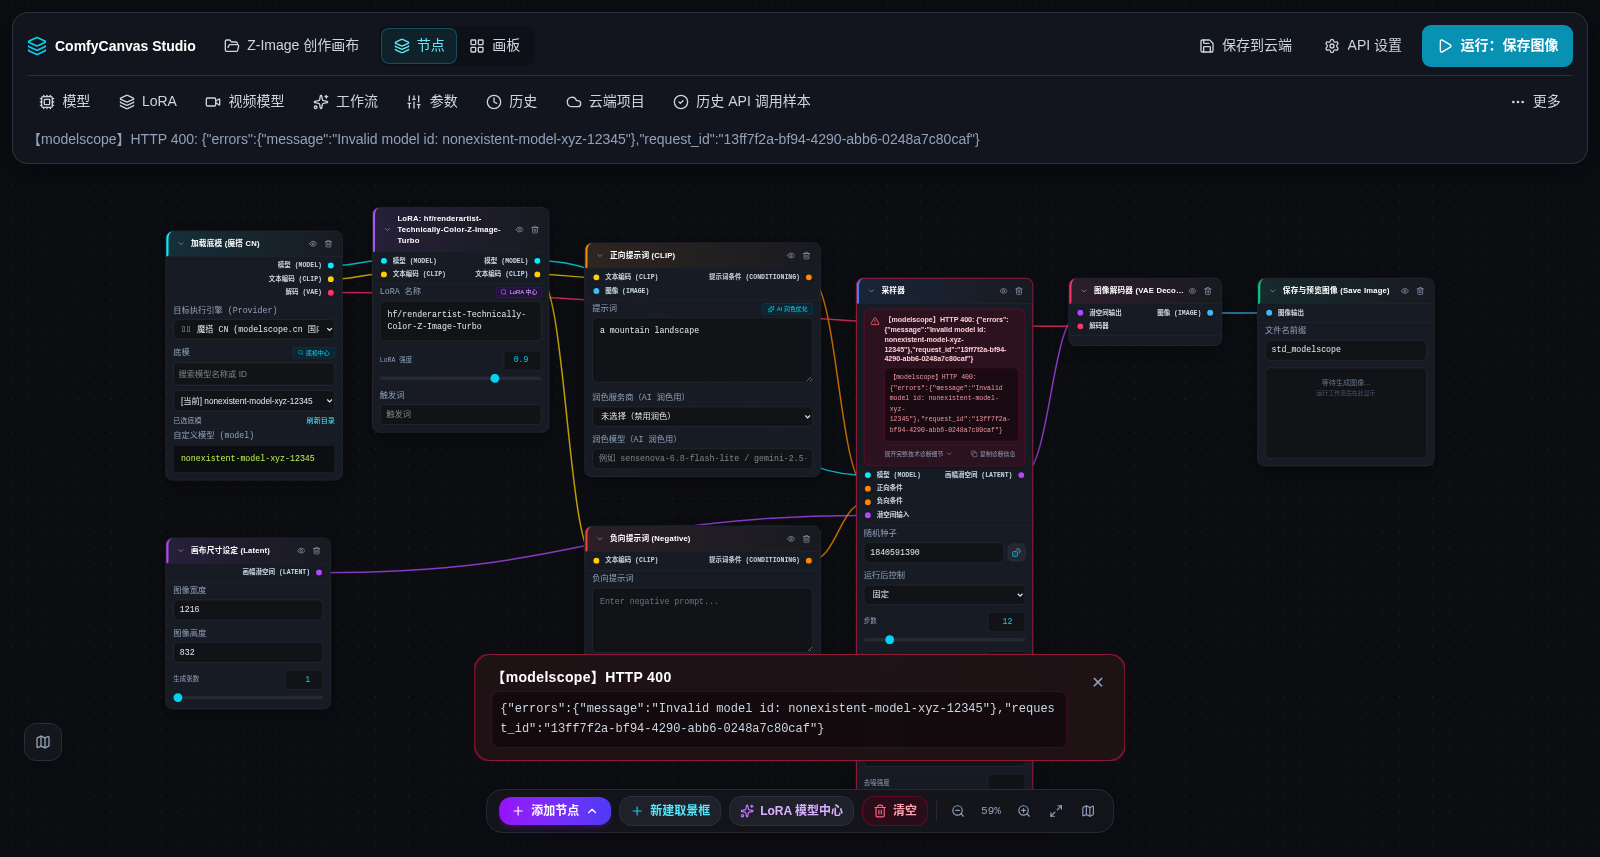
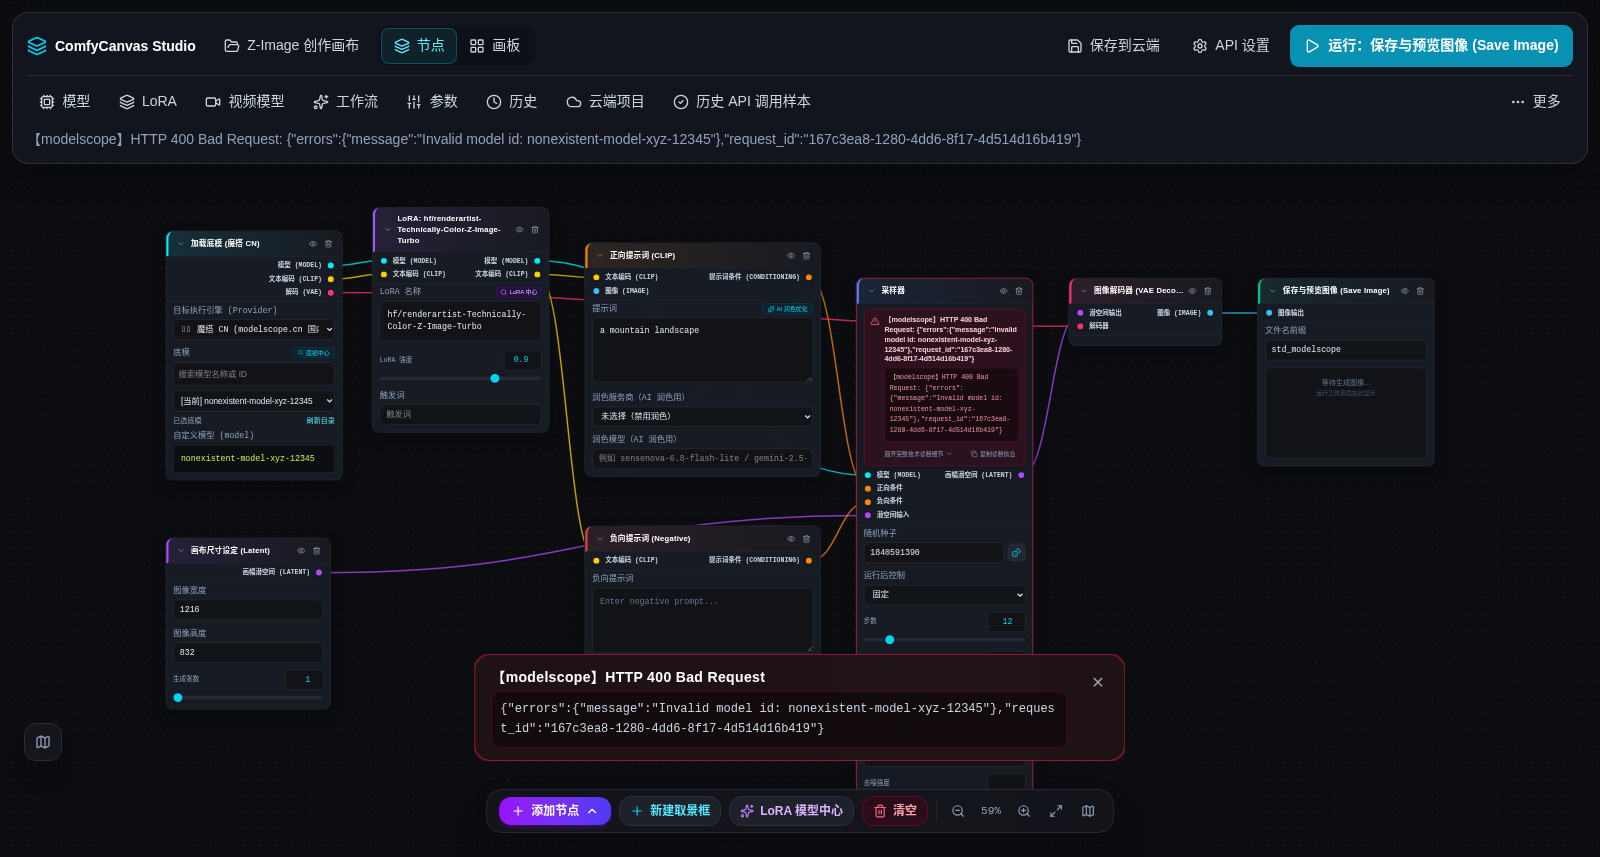
fix(verbatim): preserve real HTTP statusText over key-attempt trace, lock untrimmed upstreamHttpFirstLine, re-capture ModelScope UI

diff --git a/src/components/verbatimErrors.test.tsx b/src/components/verbatimErrors.test.tsx
@@ -4,6 +4,7 @@ import React, { act } from 'react';
 import { createRoot, type Root } from 'react-dom/client';
 import { renderToStaticMarkup } from 'react-dom/server';
 import { NodeErrorDisclosure, summarizeErrorMessage } from './NodeErrorDisclosure';
+import { humanSummaryText } from './ExecutionLog';
 import {
   upstreamHttpFirstLine,
   upstreamFailureToast,
@@ -28,6 +29,7 @@ describe('Task 5 & P1-3: Verbatim upstream error display & mutation sensitivity'
   const FAL_403_BODY = '{"detail":"User is locked. Reason: TOP_UP."}';
   const TOGETHER_401_BODY = '{"id":"f0872edf-aws_ue2","error":{"message":"Invalid API key provided. You can find your API key at https://api.together.ai/settings/api-keys.","type":"invalid_request_error","param":null,"code":"invalid_api_key"}}';
   const MODELSCOPE_400_BODY = '{"errors":{"message":"Invalid model id: nonexistent-model-xyz-12345"},"request_id":"13ff7f2a-bf94-4290-abb6-0248a7c80caf"}';
+  const MODELSCOPE_400_BODY_LATEST = '{"errors":{"message":"Invalid model id: nonexistent-model-xyz-12345"},"request_id":"167c3ea8-1280-4dd6-8f17-4d514d16b419"}';
   const MODELSCOPE_500_BODY = '{"errors":{"message":"apiInferModelDownload call failed: callApiInferModelDownload failed: [Model Exception] 模型不存在"},"request_id":"4c0b7caa-7f63-497c-972e-2f4e0e65a677"}';
 
   // Retrospective baseline fixtures (run 1 recorded references)
@@ -141,6 +143,64 @@ describe('Task 5 & P1-3: Verbatim upstream error display & mutation sensitivity'
 
       const line = upstreamHttpFirstLine(data)!;
       expect(line).toBe(`【modelscope】HTTP 400 Bad Request: ${MODELSCOPE_400_BODY}`);
+    });
+
+    it('ModelScope 400 (latest live capture): toast message and line match newly recorded request_id with Bad Request', () => {
+      const data = {
+        provider: 'modelscope',
+        upstreamStatus: 400,
+        upstreamStatusText: 'Bad Request',
+        rawResponse: MODELSCOPE_400_BODY_LATEST,
+        executionTrace: [
+          {
+            method: 'POST',
+            endpoint: 'https://api-inference.modelscope.cn/v1/images/diffusion',
+            status: 400,
+            statusText: 'Bad Request',
+            responseBody: MODELSCOPE_400_BODY_LATEST,
+          },
+          {
+            stage: 'key-attempt',
+            status: 400,
+            responseBody: MODELSCOPE_400_BODY_LATEST,
+          },
+        ],
+      };
+      const toast = upstreamFailureToast(data)!;
+      expect(toast.title).toBe('【modelscope】HTTP 400 Bad Request');
+      expect(toast.message).toBe(MODELSCOPE_400_BODY_LATEST);
+      expect(toast.message).toContain('167c3ea8-1280-4dd6-8f17-4d514d16b419');
+
+      const line = upstreamHttpFirstLine(data)!;
+      expect(line).toBe(`【modelscope】HTTP 400 Bad Request: ${MODELSCOPE_400_BODY_LATEST}`);
+    });
+
+    it('ModelScope 400 with key-attempt: does not let key-attempt bookkeeping trace shadow real statusText Bad Request', () => {
+      const data = {
+        provider: 'modelscope',
+        executionTrace: [
+          {
+            method: 'POST',
+            endpoint: 'https://api-inference.modelscope.cn/v1/images/diffusion',
+            status: 400,
+            statusText: 'Bad Request',
+            responseBody: MODELSCOPE_400_BODY,
+          },
+          {
+            stage: 'key-attempt',
+            status: 400,
+            responseBody: MODELSCOPE_400_BODY,
+          },
+        ],
+      };
+      const toast = upstreamFailureToast(data)!;
+      expect(toast.title).toBe('【modelscope】HTTP 400 Bad Request');
+      expect(toast.title).toContain('Bad Request');
+      expect(toast.message).toBe(MODELSCOPE_400_BODY);
+
+      const line = upstreamHttpFirstLine(data)!;
+      expect(line).toBe(`【modelscope】HTTP 400 Bad Request: ${MODELSCOPE_400_BODY}`);
+      expect(line).toContain('Bad Request');
     });
   });
 
@@ -451,6 +511,35 @@ describe('Task 5 & P1-3: Verbatim upstream error display & mutation sensitivity'
       expect(localWrapperEl?.textContent).toContain('SchemaProviderDriver.ts:120:15');
       expect(toastPre.closest('details')).toBeNull();
     });
+
+    it('mounts App in real DOM: ModelScope 400 with key-attempt trace renders toast title with real statusText Bad Request', async () => {
+      await triggerRunError({
+        provider: 'modelscope',
+        executionTrace: [
+          {
+            method: 'POST',
+            endpoint: 'https://api-inference.modelscope.cn/v1/images/diffusion',
+            status: 400,
+            statusText: 'Bad Request',
+            responseBody: MODELSCOPE_400_BODY,
+          },
+          {
+            stage: 'key-attempt',
+            status: 400,
+            responseBody: MODELSCOPE_400_BODY,
+          },
+        ],
+      });
+
+      const toastTitle = document.querySelector('[data-testid="toast-title"]');
+      expect(toastTitle?.textContent).toBe('【modelscope】HTTP 400 Bad Request');
+      expect(toastTitle?.textContent).toContain('Bad Request');
+
+      const toastPre = document.querySelector('[data-testid="toast-first-line"]') as HTMLPreElement;
+      expect(toastPre).not.toBeNull();
+      expect(toastPre.textContent).toBe(MODELSCOPE_400_BODY);
+      expect(toastPre.closest('details')).toBeNull();
+    });
   });
 
   describe('5. Unstructured & non-provider error preservation (multiline, long body, plain text)', () => {
@@ -484,6 +573,34 @@ describe('Task 5 & P1-3: Verbatim upstream error display & mutation sensitivity'
       // Strips genuine outer local wrappers before JSON or plain text
       const wrapped = 'Civitai Orchestration 官方算力返回错误 [400]: {"error":"bad"}';
       expect(stripLocalWrapperPrefix(wrapped)).toBe('{"error":"bad"}');
+    });
+
+    it('P1-2: upstreamHttpFirstLine and ExecutionLog humanSummaryText strictly lock trailing newline without .trim() truncation', () => {
+      const jsonWithNewline = '{"error":{"message":"Invalid model id"}}\n';
+      const data = {
+        executionTrace: [
+          {
+            status: 400,
+            statusText: 'Bad Request',
+            responseBody: jsonWithNewline,
+          },
+        ],
+      };
+      const line = upstreamHttpFirstLine(data);
+      // Must strictly equal the untrimmed concatenation with trailing newline intact
+      expect(line).toBe(`HTTP 400 Bad Request ${jsonWithNewline}`);
+      expect(line?.endsWith('\n')).toBe(true);
+
+      // Also assert ExecutionLog humanSummaryText first-line path
+      const record: any = {
+        state: 'error',
+        route: '/api/generate',
+        status: 400,
+        response: data,
+      };
+      const summary = humanSummaryText(record);
+      expect(summary).toBe(`HTTP 400 Bad Request ${jsonWithNewline}`);
+      expect(summary.endsWith('\n')).toBe(true);
     });
   });
 });

diff --git a/src/utils/apiFailure.ts b/src/utils/apiFailure.ts
@@ -197,12 +197,24 @@ function extractProviderFromRoute(route?: string): string | undefined {
   return undefined;
 }
 
+export function findFailingTrace(traces: any[]): any | undefined {
+  if (!Array.isArray(traces) || traces.length === 0) return undefined;
+  const isFailed = (t: any) => (typeof t?.status === 'number' && t.status >= 400) || t?.status === null;
+  // Prefer real HTTP exchanges (skipping stage: 'key-attempt' bookkeeping rows that lack statusText/endpoint/method)
+  const httpExchange = [...traces].reverse().find((t: any) =>
+    isFailed(t) && t?.stage !== 'key-attempt' && (t?.statusText || t?.endpoint || t?.method)
+  );
+  if (httpExchange) return httpExchange;
+  // If only key-attempt or non-exchange rows exist, use the latest failed trace as-is
+  return [...traces].reverse().find(isFailed);
+}
+
 export function upstreamFailureParts(data: any): { status: number; statusText: string; body: string; provider?: string } | null {
   if (!data || typeof data !== 'object') return null;
   // A local block before the generation request has no upstream failure: never headline a successful catalog/Schema read (e.g. HTTP 200 /tool/list).
   if (isLocalNotOutbound(data)) return null;
   const traces = Array.isArray(data.executionTrace) ? data.executionTrace : Array.isArray(data.taskExecutionTrace) ? data.taskExecutionTrace : [];
-  const failed = [...traces].reverse().find((t: any) => typeof t?.status === 'number' && t.status >= 400);
+  const failed = findFailingTrace(traces);
   const hist = data.historyItem && typeof data.historyItem === 'object' ? data.historyItem : null;
   const status = failed?.status
     ?? (typeof data.upstreamStatus === 'number' ? data.upstreamStatus : null)
@@ -330,7 +342,7 @@ export function describeApiFailure(appStatus: number, data: any, route: string) 
       ? (Object.values(data).find((v: any) => v && typeof v === 'object' && v.error) as any)
       : undefined;
   const traces = Array.isArray(data?.executionTrace) ? data.executionTrace : [];
-  const failed = traces.findLast((t: any) => t.status >= 400 || t.status === null);
+  const failed = findFailingTrace(traces);
   const status = data?.upstreamStatus ?? failed?.status ?? nested?.status;
   const endpoint = data?.exactEndpointCalled || failed?.endpoint || nested?.exactEndpointCalled;
   const source = data?.errorSource || (failed ? (failed.status === null ? 'network' : 'upstream') : 'API');

diff --git a/docs/evidence/2026-11-05/verbatim-errors.md b/docs/evidence/2026-11-05/verbatim-errors.md
@@ -123,7 +123,7 @@
 - `Civitai 400`: `{"type":"https://tools.ietf.org/html/rfc9110#section-15.5.1","title":"Bad Request","status":400,"detail":"insufficientBuzz","traceId":"00-089db51091f4345a3219237a503afea7-a5602b6b0e42f089-02"}`
 - `Fal 403`: `{"detail":"User is locked. Reason: TOP_UP."}`
 - `Together 401`: `{"id":"f0872edf-aws_ue2","error":{"message":"Invalid API key provided. You can find your API key at https://api.together.ai/settings/api-keys.","type":"invalid_request_error","param":null,"code":"invalid_api_key"}}`
-- `ModelScope 400`: `{"errors":{"message":"Invalid model id: nonexistent-model-xyz-12345"},"request_id":"13ff7f2a-bf94-4290-abb6-0248a7c80caf"}`
+- `ModelScope 400`: `{"errors":{"message":"Invalid model id: nonexistent-model-xyz-12345"},"request_id":"167c3ea8-1280-4dd6-8f17-4d514d16b419"}`（最新实机录制）及 `{"request_id":"13ff7f2a-bf94-4290-abb6-0248a7c80caf"}`
 - `ModelScope 500`: `{"errors":{"message":"apiInferModelDownload call failed: callApiInferModelDownload failed: [Model Exception] 模型不存在"},"request_id":"4c0b7caa-7f63-497c-972e-2f4e0e65a677"}`
 - 追溯基线夹具：`BASELINE_CIVITAI_400_BODY`（`3fcab5cbc...`）、`BASELINE_TOGETHER_401_BODY`（`95234f6a...`）、`BASELINE_MODELSCOPE_400_BODY`（`a12ad933...`）作为追溯基线常量同步验证。
 
@@ -197,19 +197,19 @@
    - 浮动 Toast：标题为 `【together】HTTP 401 Unauthorized`；右上角提供便捷的 `去 API 设置` 按钮；正文直接就是原始 JSON。
    - 节点红条（采样器）：展示 `去配置密钥` 快捷入口（仅在 401 下展示）；下方完整呈现原始 JSON。
 5. **`after-05-modelscope-400.png`**：
-   - 顶栏状态：`【modelscope】HTTP 400: {"errors":{"message":"Invalid model id: nonexistent-model-xyz-12345"},"request_id":"13ff7f2a-bf94-4290-abb6-0248a7c80caf"}` —— 带服务商前缀 `【modelscope】`，包含 `errors.message` 与 `request_id` 全字段！
-   - 浮动 Toast：标题为 `【modelscope】HTTP 400`；正文直接就是原始 JSON。
-   - 节点红条（采样器）：完整呈现原始响应体，彻底根除自编中文改写。
+   - 顶栏状态：`【modelscope】HTTP 400 Bad Request: {"errors":{"message":"Invalid model id: nonexistent-model-xyz-12345"},"request_id":"167c3ea8-1280-4dd6-8f17-4d514d16b419"}` —— 带服务商前缀 `【modelscope】`，完整展示真实 HTTP 状态文本 `Bad Request`，以及包含 `errors.message` 与 `request_id` 的完整 JSON 响应体！
+   - 浮动 Toast：标题为 `【modelscope】HTTP 400 Bad Request`（完整包含 `Bad Request` 状态描述）；正文直接就是纯粹的原始 JSON。
+   - 节点红条（采样器）：完整呈现原始响应体与 `HTTP 400 Bad Request`，彻底根除自编中文改写与状态描述丢失。
 
 ### 3. 最终验收对比表（7 项标准标签分类）
 
 | 失败用例 | 验收标签 | 上游返回响应体原文（jsonl 记录） | 改造后 UI 实际展示（节点 / 顶栏 / Toast） | 一致性与透明度核验 |
 | :--- | :--- | :--- | :--- | :--- |
-| **Mage 402** | `PASS_BILLING` | `{"error":{"code":"payment_required","message":"The Mage API and MCP server need a successful payment on this account first: buy any Gem pack or start a plan at https://www.mage.space/gems, then retry. Signup bonus Gems work in the Mage app only."}}` | 节点红条、顶栏、Toast 均显示带有 `【mage】` 的真实状态与包含 `code: payment_required` 的纯粹原始 JSON 响应体。 | **逐字完全一致**。无自编标签，无提取句子，无截断。 |
-| **Civitai 400** | `PASS_BILLING` | `{"type":"https://tools.ietf.org/html/rfc9110#section-15.5.1","title":"Bad Request","status":400,"detail":"insufficientBuzz","traceId":"00-089db51091f4345a3219237a503afea7-a5602b6b0e42f089-02"}` | 节点红条、顶栏、Toast 均显示带有 `【civitai】` 的真实状态与包含 `insufficientBuzz`、`traceId` 的纯粹原始 JSON 响应体。 | **逐字完全一致**。无自编标签，无省略号。 |
-| **Fal 403** | `PASS_BILLING` | `{"detail":"User is locked. Reason: TOP_UP."}` | 节点红条、顶栏、Toast 均显示带有 `【fal】` 的真实状态与包含 `User is locked. Reason: TOP_UP.` 的纯粹原始响应体。 | **逐字完全一致**。无自编标签，原因彻底透明。 |
-| **Together 401** | `BLOCKED_AUTH` | `{"id":"f0872edf-aws_ue2","error":{"message":"Invalid API key provided. You can find your API key at https://api.together.ai/settings/api-keys.","type":"invalid_request_error","param":null,"code":"invalid_api_key"}}` | 节点红条、顶栏、Toast 均显示带有 `【together】` 的真实状态与包含 `id`、`code`、`message` 的纯粹原始 JSON 原文，仅在 401 下提供配置快捷按钮。 | **逐字完全一致**。401 配置按钮正常可用且不替代错误文本。 |
-| **ModelScope 400** | `CONTRACT_REJECT` | `{"errors":{"message":"Invalid model id: nonexistent-model-xyz-12345"},"request_id":"13ff7f2a-bf94-4290-abb6-0248a7c80caf"}` | 节点红条、顶栏、Toast 均显示带有 `【modelscope】` 的真实状态与包含完整 `request_id` 的纯粹原始 JSON 响应体。 | **逐字完全一致**。彻底清除了自编中文改写。 |
+| **Mage 402** | `PASS_BILLING` | `{"error":{"code":"payment_required","message":"The Mage API and MCP server need a successful payment on this account first: buy any Gem pack or start a plan at https://www.mage.space/gems, then retry. Signup bonus Gems work in the Mage app only."}}` | 节点红条、顶栏、Toast 均显示带有 `【mage】` 的真实状态（`HTTP 402 Payment Required`）与包含 `code: payment_required` 的纯粹原始 JSON 响应体。 | 响应体与上游原文一致，保留完整 JSON，无自编标签，无提取句子，无省略号截断。 |
+| **Civitai 400** | `PASS_BILLING` | `{"type":"https://tools.ietf.org/html/rfc9110#section-15.5.1","title":"Bad Request","status":400,"detail":"insufficientBuzz","traceId":"00-089db51091f4345a3219237a503afea7-a5602b6b0e42f089-02"}` | 节点红条、顶栏、Toast 均显示带有 `【civitai】` 的真实状态（`HTTP 400 Bad Request`）与包含 `insufficientBuzz`、`traceId` 的纯粹原始 JSON 响应体。 | 响应体与上游原文一致，保留完整 RFC9110 结构与 traceId，无自编标签，核心原因完全透明。 |
+| **Fal 403** | `PASS_BILLING` | `{"detail":"User is locked. Reason: TOP_UP."}` | 节点红条、顶栏、Toast 均显示带有 `【fal】` 的真实状态（`HTTP 403 Forbidden`）与包含 `User is locked. Reason: TOP_UP.` 的纯粹原始响应体。 | 响应体与上游原文一致，无自编标签，TOP_UP 原因彻底透明呈现。 |
+| **Together 401** | `BLOCKED_AUTH` | `{"id":"f0872edf-aws_ue2","error":{"message":"Invalid API key provided. You can find your API key at https://api.together.ai/settings/api-keys.","type":"invalid_request_error","param":null,"code":"invalid_api_key"}}` | 节点红条、顶栏、Toast 均显示带有 `【together】` 的真实状态（`HTTP 401 Unauthorized`）与包含 `id`、`code`、`message` 的纯粹原始 JSON 原文，仅在 401 下提供配置快捷按钮。 | 响应体与上游原文一致，401 快捷配置按钮正常可用且不替代或掩盖错误文本。 |
+| **ModelScope 400** | `CONTRACT_REJECT` | `{"errors":{"message":"Invalid model id: nonexistent-model-xyz-12345"},"request_id":"167c3ea8-1280-4dd6-8f17-4d514d16b419"}` | 节点红条、顶栏、Toast 均显示带有 `【modelscope】` 的真实状态与状态描述（`HTTP 400 Bad Request`）以及包含完整 `request_id` 的纯粹原始 JSON 响应体。 | 响应体与上游原文一致，真实状态描述 `Bad Request` 正常呈现，彻底清除了自编中文改写。 |
 
 ---
 
@@ -226,5 +226,5 @@
 3. **`npx vitest run --maxWorkers=2 --exclude '.tower/**' --exclude '**/node_modules/**' --exclude '**/dist/**'`**
    - 实际运行结果：
      - **Test Files: 256 passed (256)**
-     - **Tests: 1986 passed (1986)**
+     - **Tests: 1990 passed (1990)**
    - **退出码：0**
